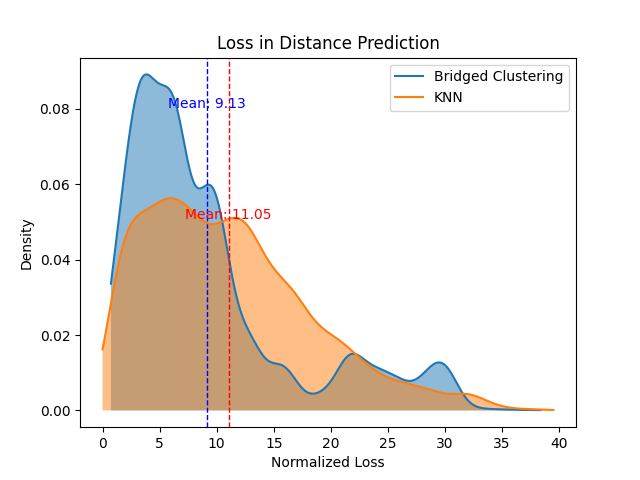
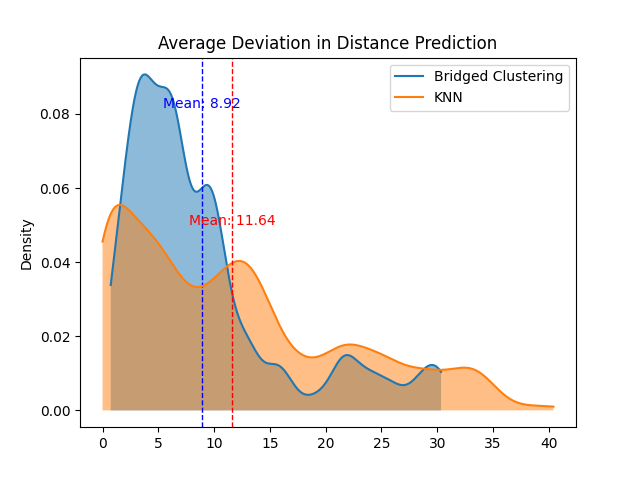
decision matrix update

diff --git a/genetics/decision_matrix.py b/genetics/decision_matrix.py
@@ -1,0 +1,94 @@
+import numpy as np
+import pandas as pd
+import matplotlib.pyplot as plt
+from sklearn.decomposition import PCA
+from sklearn.preprocessing import StandardScaler
+from sklearn.metrics import adjusted_rand_score, normalized_mutual_info_score
+from sklearn.cluster import KMeans
+from sklearn.neighbors import KNeighborsRegressor
+from scipy.stats import gaussian_kde
+import warnings
+warnings.filterwarnings("ignore")
+
+
+def simgleExperiment(sample_size):
+
+    gene_df = pd.read_csv('data/gene_spec.csv')
+    morph_df = pd.read_csv('data/morph.csv')
+
+    morph_df = morph_df.drop(['idx', 'Date', 'classification', 'uncertainty','Latitude', 'Longitude', 'Altitude.ft', 'Multi.Single.stem', 'General.location.Habitat', 'site', 'Putative_spp'], axis=1)
+    morph_df = morph_df.dropna()
+    morph_df = morph_df.replace(0, 1e-10)
+
+    data = morph_df.drop(['TreeNo'], axis=1)
+
+    scaler = StandardScaler()
+    data = scaler.fit_transform(data)
+    data = data[:, [0, 11, 7, 12, 16]]
+    kmeans = KMeans(n_clusters=3, random_state=0)
+    cluster_labels = kmeans.fit_predict(data)
+
+    morph_df['morph_cluster'] = cluster_labels
+
+    gene_df = gene_df[gene_df['spec'] != 'QB']
+    gene_df = gene_df.drop(['DNA_ID', 'spec'], axis=1)
+    data = gene_df.drop(['TreeNo'], axis=1)
+
+    scaler = StandardScaler()
+    data = scaler.fit_transform(data)
+    data = data[:, [1,2,0]]
+    kmeans = KMeans(n_clusters=3, random_state=0)
+    cluster_labels = kmeans.fit_predict(data)
+
+    gene_df['gene_cluster'] = cluster_labels
+
+    joined_df= morph_df.merge(gene_df, on='TreeNo')
+
+    # sample a random batch of rows
+    sample = joined_df.sample(sample_size)
+
+    # build an association matrix
+    association_matrix = np.zeros((3,3))
+    for i in range(3):
+        for j in range(3):
+            association_matrix[i,j] = np.sum((sample['morph_cluster'] == i) & (sample['gene_cluster'] == j))
+
+    # Initialize decision array
+    decision = np.zeros(3, dtype=int)
+
+    # Create a copy of the association matrix to manipulate
+    temp_matrix = association_matrix.copy()
+
+    # Fill the decision array
+    for _ in range(3):
+        max_index = np.argmax(temp_matrix)
+        max_location = np.unravel_index(max_index, temp_matrix.shape)
+        decision[max_location[0]] = max_location[1]
+        temp_matrix[max_location[0], :] = -np.inf
+        temp_matrix[:, max_location[1]] = -np.inf
+
+    return decision
+
+
+truth = np.array([1, 2, 0])
+
+
+accuracies = []
+for n_samples in range(3, 115):
+    iter = 1000
+    count = 0
+    for i in range(iter):
+        res = simgleExperiment(n_samples)
+        if np.array_equal(res, truth):
+            count += 1
+    accuracies.append(count/iter)
+    print("Sample size: ", n_samples, "Accuracy: ", count/iter)
+
+# Plot the results
+axiss = np.arange(3, 115) / 115
+print(axiss)
+plt.plot(axiss, accuracies)
+plt.xlabel('Percentage of Fully Supervised Samples')
+plt.ylabel('Accuracy in Cluster Association')
+plt.title('Association Accuracy vs Size of Supervised Set')
+plt.show()

diff --git a/genetics/main.py b/genetics/main.py
@@ -155,9 +155,7 @@ def plotDensityGraph(result_bkm, result_knn):
     plt.axvline(mean_knn, color='red', linestyle='dashed', linewidth=1)
     plt.text(mean_knn, max(density) * 0.9, f'Mean: {mean_knn:.2f}', color='red', ha='center')
 
-
-    plt.title('Loss in Distance Prediction')
-    plt.xlabel('Normalized Loss')
+    plt.title('Average Deviation in Distance Prediction')
     plt.ylabel('Density')
     plt.legend()
     plt.savefig('density_graph.png')
@@ -166,7 +164,7 @@ def plotDensityGraph(result_bkm, result_knn):
 
 result_bkm, result_knn = [], []
 for i in range(100):
-    bkm, knn = simgleExperiment(1, 20)
+    bkm, knn = simgleExperiment(10, 1)
     result_bkm.extend(bkm)
     result_knn.extend(knn)
 plotDensityGraph(result_bkm, result_knn)
